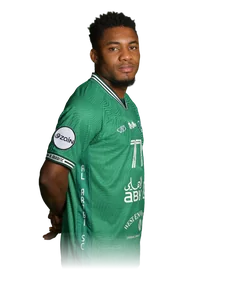
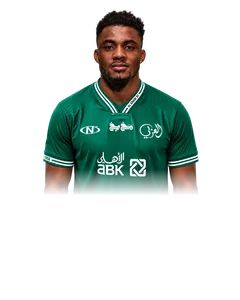
العربي: صورة جديدة لإيوالا 77 (استوديو أمامية) — صور ?v=20، fantasy 226، sw -121

diff --git a/fantasy/index.html b/fantasy/index.html
@@ -12,7 +12,7 @@
 <link rel="preconnect" href="https://fonts.googleapis.com">
 <link rel="preconnect" href="https://fonts.gstatic.com" crossorigin>
 <link href="https://fonts.googleapis.com/css2?family=Vazirmatn:wght@300;400;500;600;700;800&display=swap" rel="stylesheet">
-<link rel="stylesheet" href="css/style.css?v=225">
+<link rel="stylesheet" href="css/style.css?v=226">
 <script src="https://cdnjs.cloudflare.com/ajax/libs/firebase/10.12.2/firebase-app-compat.min.js"></script>
 <script src="https://cdnjs.cloudflare.com/ajax/libs/firebase/10.12.2/firebase-auth-compat.min.js"></script>
 <script src="https://cdnjs.cloudflare.com/ajax/libs/firebase/10.12.2/firebase-firestore-compat.min.js"></script>
@@ -20,13 +20,13 @@
 </head>
 <body>
   <div id="splash">
-    <div class="splash-card"><img class="splash-logo" src="assets/logo-light.png?v=225" alt="Kuwait Fantasy League"></div>
+    <div class="splash-card"><img class="splash-logo" src="assets/logo-light.png?v=226" alt="Kuwait Fantasy League"></div>
   </div>
 
   <header id="topbar" style="display:none">
     <div id="brand" onclick="APP.go('dashboard')">
-      <img class="brand-lockup lk-dark" src="assets/logo-dark.png?v=225" alt="Kuwait Fantasy League">
-      <img class="brand-lockup lk-light" src="assets/logo-light.png?v=225" alt="Kuwait Fantasy League">
+      <img class="brand-lockup lk-dark" src="assets/logo-dark.png?v=226" alt="Kuwait Fantasy League">
+      <img class="brand-lockup lk-light" src="assets/logo-light.png?v=226" alt="Kuwait Fantasy League">
     </div>
     <a id="toSite" href="/" title="العودة للموقع">
       <svg viewBox="0 0 24 24" width="16" height="16" fill="none" stroke="currentColor" stroke-width="2.2" stroke-linecap="round" stroke-linejoin="round" aria-hidden="true"><path d="M9 6l6 6-6 6"/></svg>
@@ -41,28 +41,28 @@
   <nav id="bottomnav"></nav>
   <div id="toasts"></div>
 
-  <script src="js/cloud.js?v=225"></script>
-  <script src="js/data.js?v=225"></script>
-  <script src="js/engine.js?v=225"></script>
-  <script src="js/ui.js?v=225"></script>
-  <script src="js/photos.js?v=225"></script>
-  <script src="js/kits.js?v=225"></script>
-  <script src="js/kits-number.js?v=225"></script>
-  <script src="js/moderation.js?v=225"></script>
-  <script src="js/views.js?v=225"></script>
-  <script src="js/picker.js?v=225"></script>
-  <script src="js/extras.js?v=225"></script>
-  <script src="js/push.js?v=225"></script>
-  <script src="js/adminauth.js?v=225"></script>
-  <script src="js/admin.js?v=225"></script>
-  <script src="js/guide.js?v=225"></script>
-  <script src="js/live-gw.js?v=225"></script>
-  <script src="js/points.js?v=225"></script>
-  <script src="js/mfsync.js?v=225"></script>
-  <script src="js/roster-sync.js?v=225"></script>
-  <script src="js/app.js?v=225"></script>
-  <script src="js/i18n.js?v=225"></script>
-  <script src="js/i18n-more.js?v=225"></script>
-  <script src="js/gate.js?v=225"></script>
+  <script src="js/cloud.js?v=226"></script>
+  <script src="js/data.js?v=226"></script>
+  <script src="js/engine.js?v=226"></script>
+  <script src="js/ui.js?v=226"></script>
+  <script src="js/photos.js?v=226"></script>
+  <script src="js/kits.js?v=226"></script>
+  <script src="js/kits-number.js?v=226"></script>
+  <script src="js/moderation.js?v=226"></script>
+  <script src="js/views.js?v=226"></script>
+  <script src="js/picker.js?v=226"></script>
+  <script src="js/extras.js?v=226"></script>
+  <script src="js/push.js?v=226"></script>
+  <script src="js/adminauth.js?v=226"></script>
+  <script src="js/admin.js?v=226"></script>
+  <script src="js/guide.js?v=226"></script>
+  <script src="js/live-gw.js?v=226"></script>
+  <script src="js/points.js?v=226"></script>
+  <script src="js/mfsync.js?v=226"></script>
+  <script src="js/roster-sync.js?v=226"></script>
+  <script src="js/app.js?v=226"></script>
+  <script src="js/i18n.js?v=226"></script>
+  <script src="js/i18n-more.js?v=226"></script>
+  <script src="js/gate.js?v=226"></script>
 </body>
 </html>

diff --git a/sw.js b/sw.js
@@ -9,7 +9,7 @@
 
    عند كل نشر: ارفع رقم VER فتُبنى ذاكرة جديدة وتُحذف القديمة.
    ========================================================= */
-const VER   = 'mf-2026-09-16-120';
+const VER   = 'mf-2026-09-16-121';
 const SHELL = 'shell-' + VER;
 const RUN   = 'run-'   + VER;
 

diff --git a/fantasy/js/photos.js b/fantasy/js/photos.js
@@ -4,7 +4,7 @@
 'use strict';
 
 /* رقم نسخة الصور: ارفعه عند إعادة توليد أي قصّة حتى لا يبقى المتصفح على النسخة القديمة */
-const PLAYER_PHOTOS_VER = '19';
+const PLAYER_PHOTOS_VER = '20';
 
 const PLAYER_PHOTOS = {
   // الصليبخات (17)
